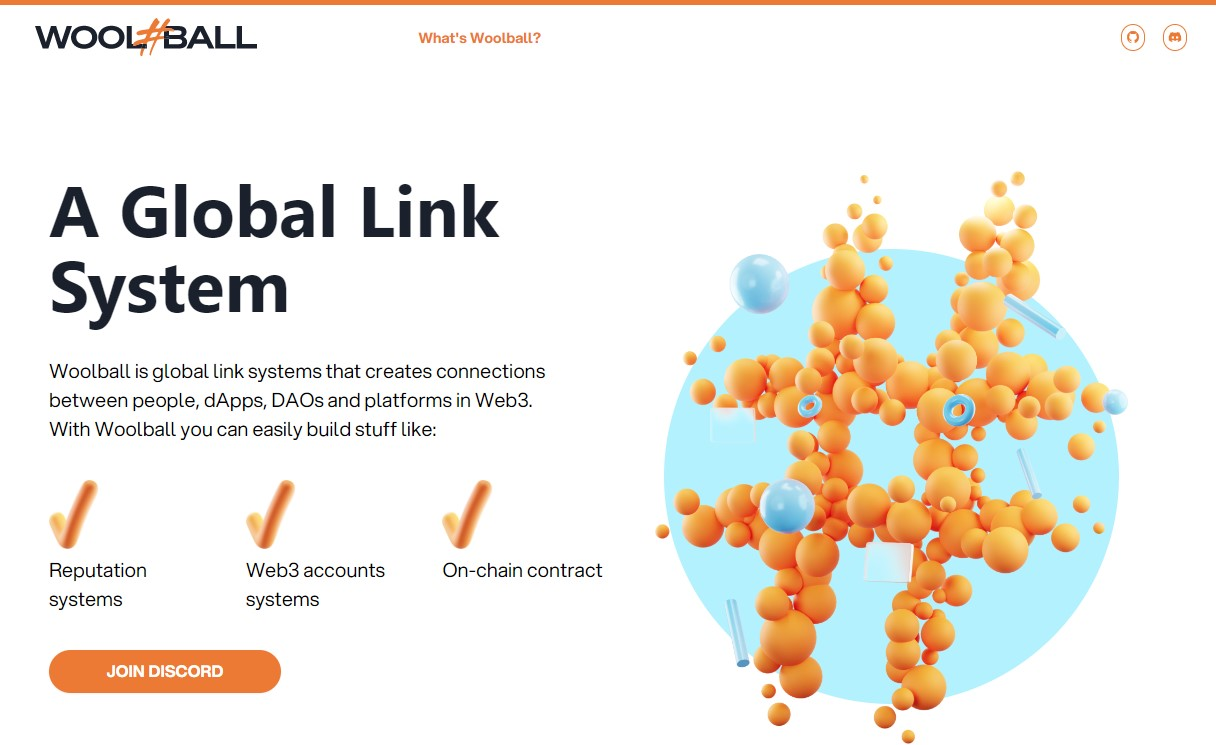
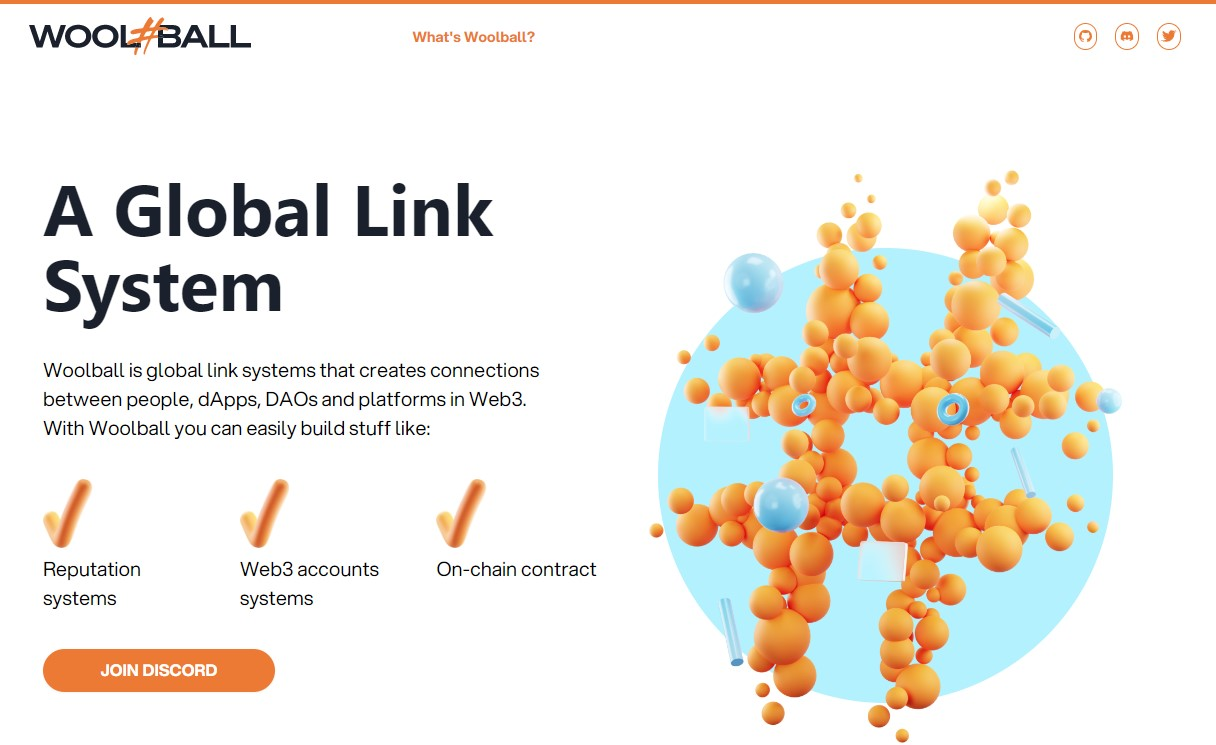
Added twitter link and modeified the screenshot preview

diff --git a/components/constants/social_profiles.tsx b/components/constants/social_profiles.tsx
@@ -1,5 +1,5 @@
 import { AiFillGithub } from 'react-icons/ai'
-import { FaDiscord } from 'react-icons/fa'
+import { FaDiscord, FaTwitter } from 'react-icons/fa'
 import { IconType } from 'react-icons/lib'
 
 export interface SocialProfileType {
@@ -20,5 +20,10 @@ export const SOCIAL_PROFILES: SocialProfileType[] = [
     image: FaDiscord,
     link: DISCORD_LINK,
     label: 'Woolball Discord',
+  },
+  {
+    image: FaTwitter,
+    link: 'https://twitter.com/woolballProject',
+    label: 'Woolball Twitter',
   },
 ]
